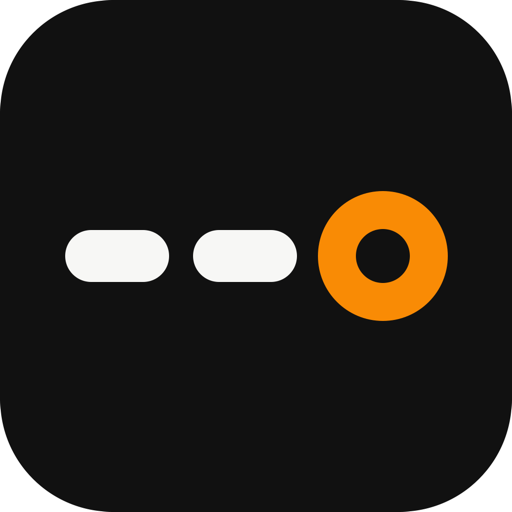
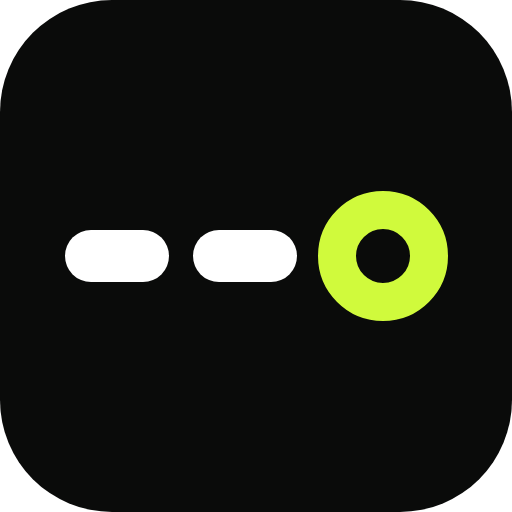
O app veste a marca onde ele sai do navegador
O icone ainda era da identidade anterior: fundo #111111 e anel laranja,
gerado antes da virada para o quase preto e o lima. Ele aparece justamente
onde o app deixa de ser uma aba: na tela de inicio do celular, no aviso de
push e na previa de um link compartilhado. Refeito nas cores de hoje, e os
tres PNG regerados a partir do SVG.

O sw.js apontava para /icone-badge.png, que nunca existiu. No Android o
selo da notificacao e uma mascara, so o alfa e usado, entao ele nasce
branco sobre transparente e sem fundo.

O manifest e os metadados passam a dizer TrackWard, com metadataBase
tirado de NEXT_PUBLIC_URL: sem ele a imagem de compartilhamento sai com
caminho relativo, e caminho relativo nao existe dentro do WhatsApp. O
appleWebApp fica com capable ligado, que e o que faz o iPhone abrir em
tela cheia depois de adicionado a tela de inicio, e e isso que destrava o
push no iOS. E robots entra como noindex: o app fica atras de login, e o
que existe la dentro e dado de cliente.

Changed region(s): [[0.5938, 0.375, 0.875, 0.625]]

diff --git a/app/layout.tsx b/app/layout.tsx
@@ -14,15 +14,41 @@ const sans = Figtree({
   display: 'swap',
 })
 
+const DESCRICAO = 'Projetos, rotinas e pessoas em movimento. Cada track com checkpoints: '
+  + 'o que precisa ser feito, quem responde e até quando.'
+
 export const metadata: Metadata = {
-  title: 'Track',
-  description: 'Cada projeto e cada rotina da empresa como uma esteira com checkpoints: o que precisa ser feito, quem responde e até quando.',
+  // O endereço público. Sem ele, o Next monta as imagens de compartilhamento
+  // com caminho relativo, e link relativo não existe dentro do WhatsApp nem do
+  // LinkedIn: a prévia sai sem imagem e ninguém entende por quê.
+  metadataBase: process.env.NEXT_PUBLIC_URL
+    ? new URL(process.env.NEXT_PUBLIC_URL)
+    : undefined,
+  title: { default: 'TrackWard', template: '%s · TrackWard' },
+  description: DESCRICAO,
+  applicationName: 'TrackWard',
   manifest: '/manifest.webmanifest',
-  appleWebApp: { capable: true, title: 'Track', statusBarStyle: 'default' },
+  // `capable` é o que faz o iPhone abrir o app em tela cheia depois de
+  // adicionado à tela de início, e é ele que destrava o push no iOS.
+  appleWebApp: { capable: true, title: 'TrackWard', statusBarStyle: 'black-translucent' },
   icons: {
-    icon: [{ url: '/icone-192.png', sizes: '192x192', type: 'image/png' }],
+    icon: [
+      { url: '/icone-192.png', sizes: '192x192', type: 'image/png' },
+      { url: '/icone.svg', type: 'image/svg+xml' },
+    ],
     apple: [{ url: '/apple-icon.png', sizes: '180x180', type: 'image/png' }],
   },
+  openGraph: {
+    type: 'website',
+    siteName: 'TrackWard',
+    title: 'TrackWard, move work forward.',
+    description: DESCRICAO,
+    locale: 'pt_BR',
+    images: [{ url: '/icone-512.png', width: 512, height: 512, alt: 'TrackWard' }],
+  },
+  // O app é de trabalho e fica atrás de login: não há nada aqui para buscador
+  // indexar, e o que existe é dado de cliente.
+  robots: { index: false, follow: false },
 }
 
 export const viewport: Viewport = {
